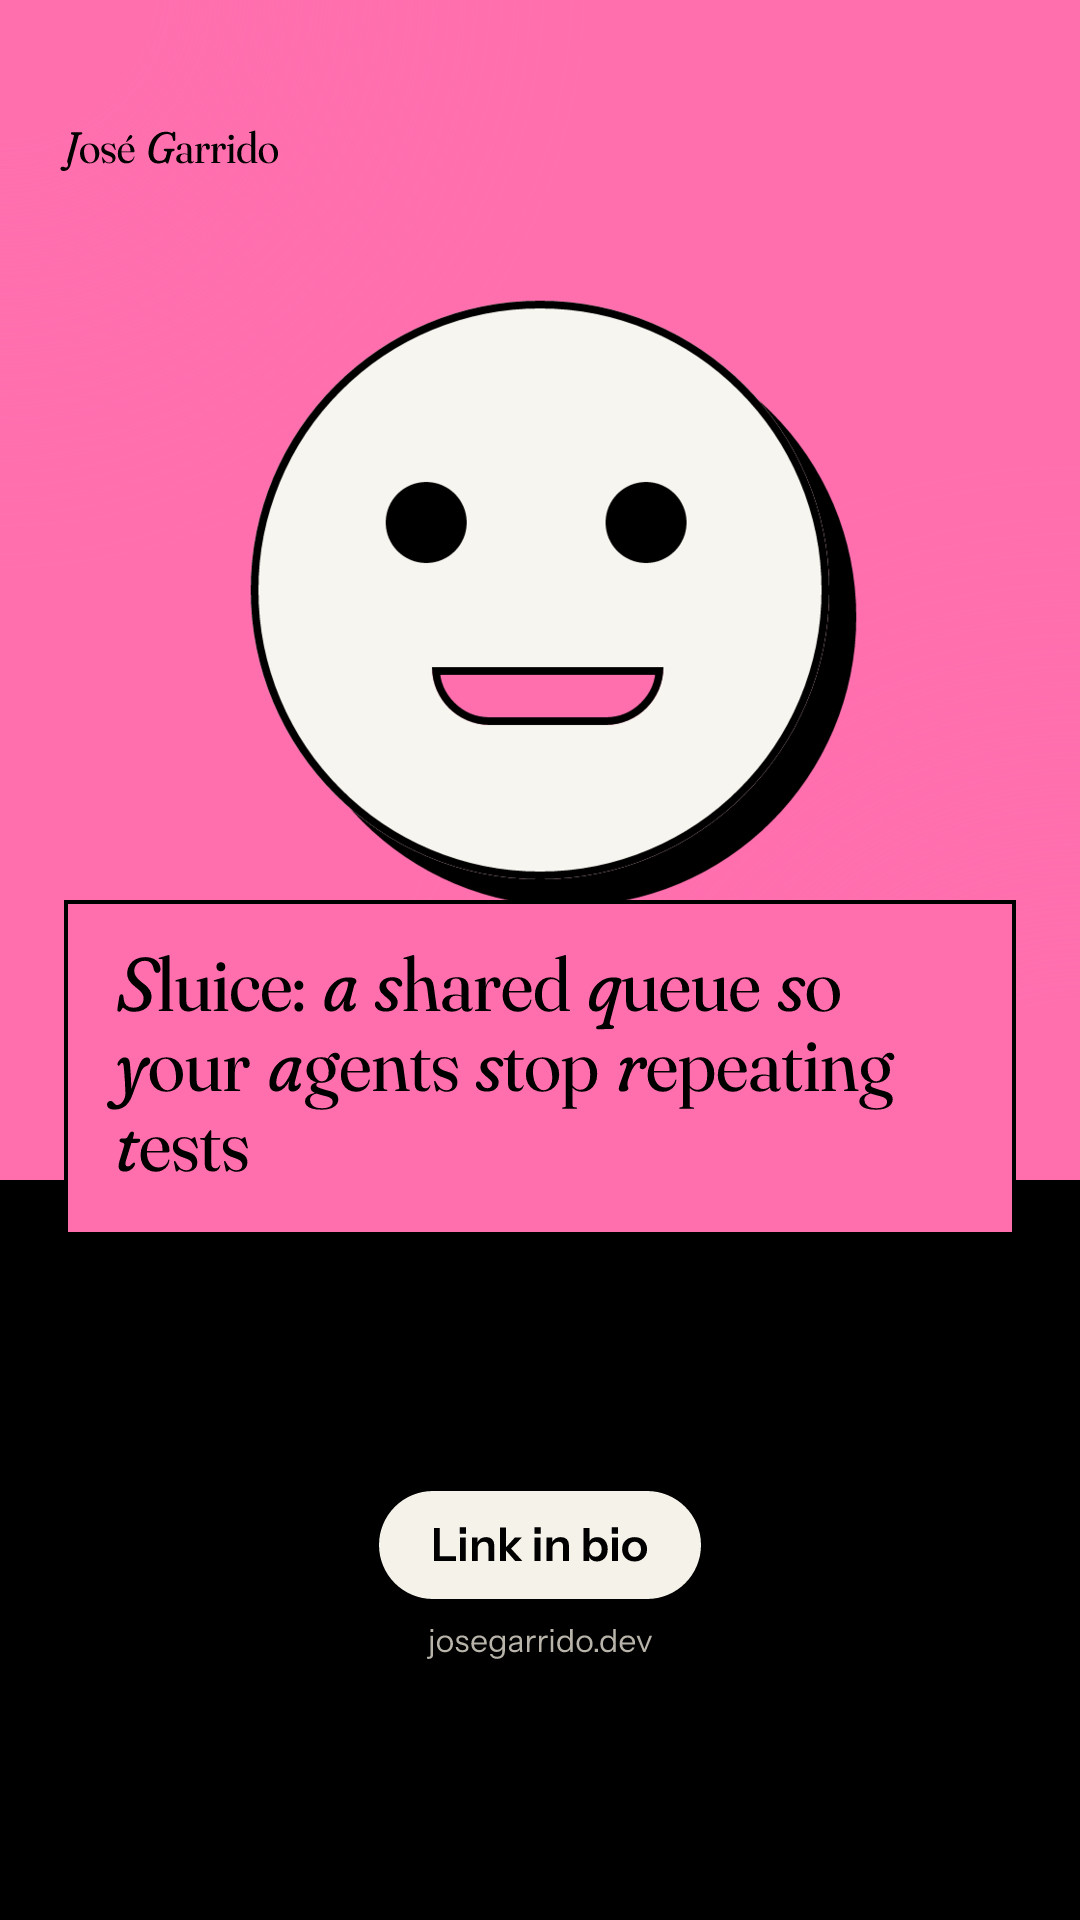
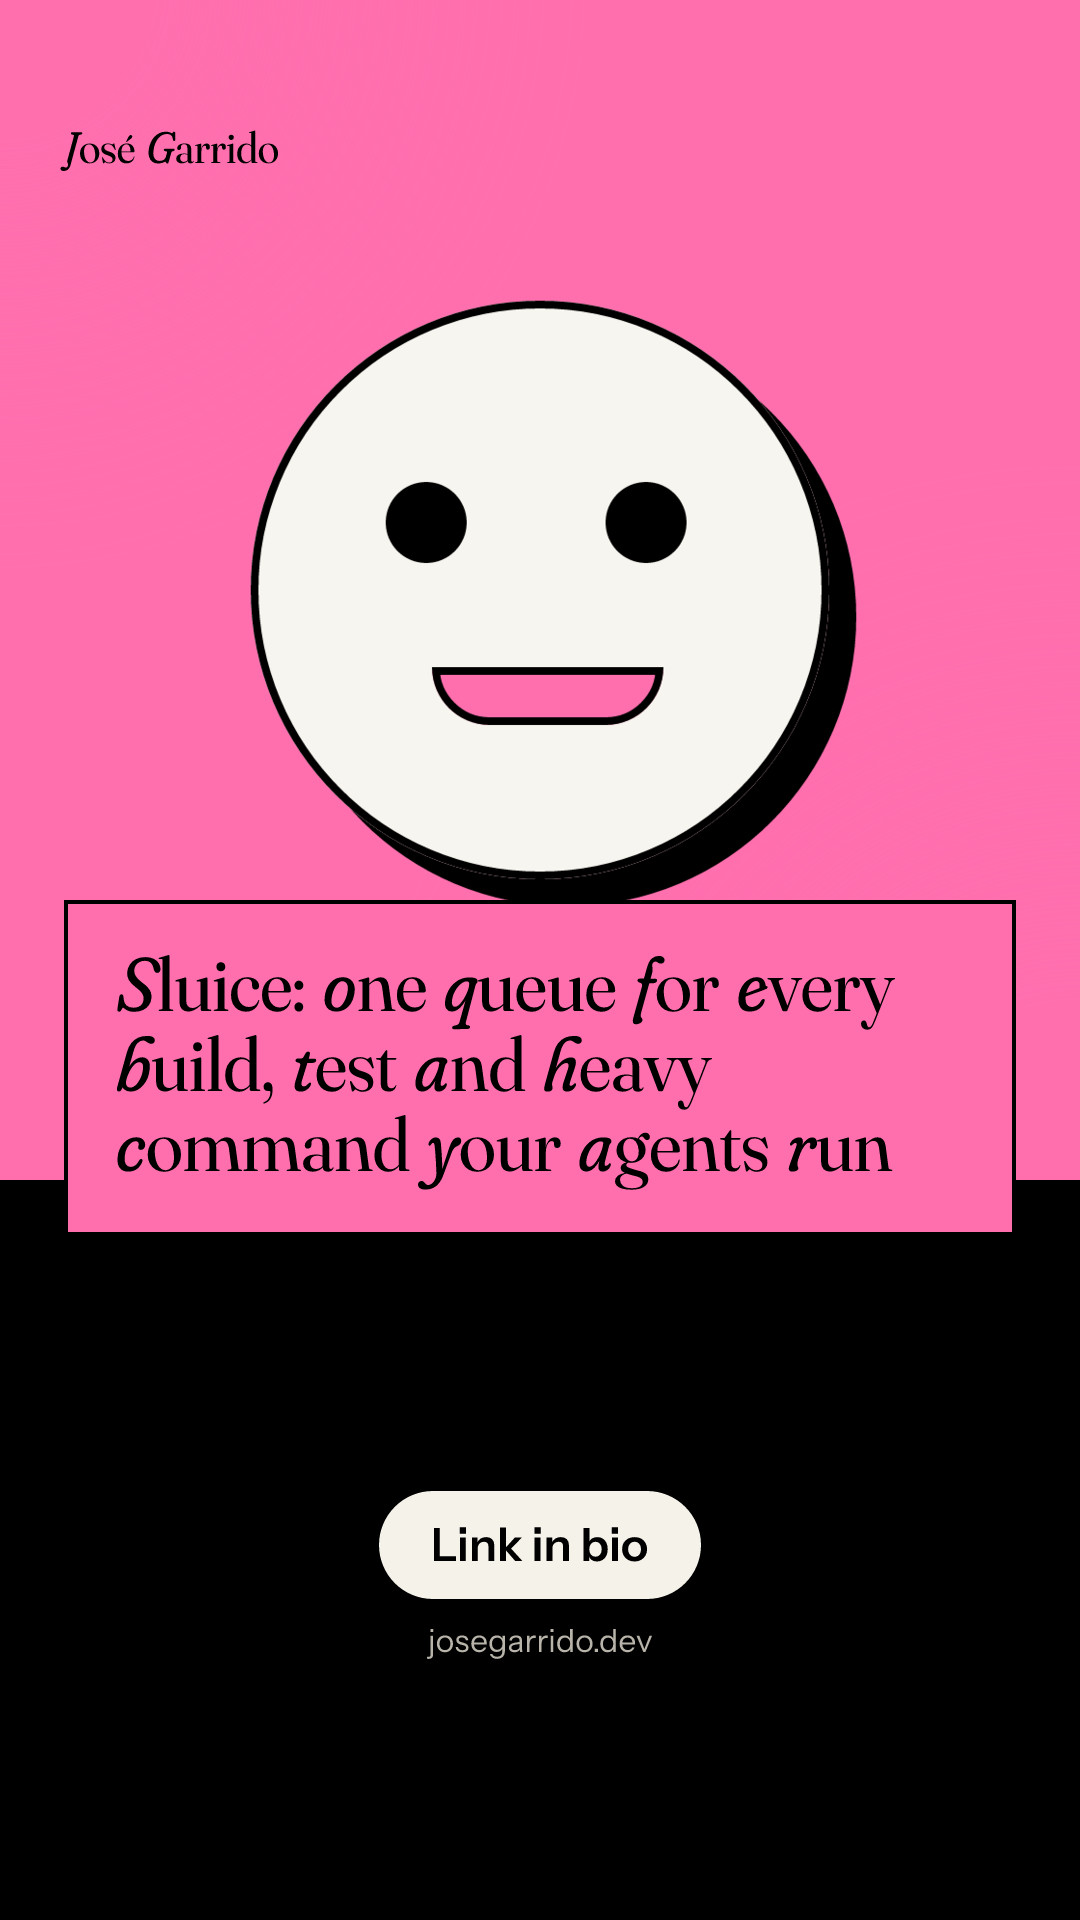
fix(article): retitle the Sluice article for builds, tests and heavy commands, not only tests
Sluice also queues the agents' heavy commands under one CPU and memory
budget, so the title, the descriptions and the newsletter subjects no longer
present it as a test-only cache. The OG image, the Instagram cover and the
story are re-rendered with Shipcast's renderer from the updated pack. Slugs,
file names and media paths are unchanged.

Changed region(s): [[0.0917, 0.5, 0.825, 0.625]]

diff --git a/articles/sluice-una-cola-compartida-para-que-tus-agentes-no-repitan-los-tests/instagram.md b/articles/sluice-una-cola-compartida-para-que-tus-agentes-no-repitan-los-tests/instagram.md
@@ -4,7 +4,7 @@
 
 Carousel, from the images in `public/articles/sluice-una-cola-compartida-para-que-tus-agentes-no-repitan-los-tests/` (their texts are drawn into them; only the caption and the comment below can be edited here):
 
-1. Cover: Sluice: a shared queue so your agents stop repeating tests. Sluice: a shared queue and cache so your AI agents don't repeat the same tests.
+1. Cover: Sluice: one queue for every build, test and heavy command your agents run. Sluice: a shared queue and cache so your AI agents don't repeat the same tests.
 2. Run each gate once: The cache key is the exact git tree plus the gate definition, shared by all worktrees. A cached typecheck answers in 0.22 s.
 3. Memory-aware scheduling: Sluice learns each gate's memory use, isolates jobs in cgroups and makes them the first victims if memory runs short.
 4. Backfilling the queue: Short jobs no longer wait behind a 12 GB suite: wait per minute of work dropped from 1.92 to 0.44 min.

diff --git a/src/content/posts/es/sluice-una-cola-compartida-para-que-tus-agentes-no-repitan-los-tests.md b/src/content/posts/es/sluice-una-cola-compartida-para-que-tus-agentes-no-repitan-los-tests.md
@@ -1,6 +1,6 @@
 ---
-title: "Sluice: una cola compartida para que tus agentes no repitan los tests"
-description: "Sluice es una cola y una caché de verificación para los agentes de IA de una máquina Linux: cada gate se ejecuta una vez por árbol de git, con presupuesto común de CPU y memoria."
+title: "Sluice: una sola cola para los builds, tests y comandos pesados de todos tus agentes"
+description: "Sluice encola los tests, builds y comandos pesados de tus agentes de IA con presupuesto común de CPU y memoria, y ejecuta cada check una vez por árbol de git."
 pubDate: 2026-10-29
 lang: es
 translationKey: "sluice-shared-queue-so-your-agents-stop-repeating-tests"

diff --git a/src/content/posts/en/sluice-shared-queue-so-your-agents-stop-repeating-tests.md b/src/content/posts/en/sluice-shared-queue-so-your-agents-stop-repeating-tests.md
@@ -1,6 +1,6 @@
 ---
-title: "Sluice: a shared queue so your agents stop repeating tests"
-description: "Sluice is a shared verification queue and cache for the AI agents on a Linux machine: each gate runs once per git tree, under a common CPU and memory budget."
+title: "Sluice: one queue for every build, test and heavy command your agents run"
+description: "Sluice queues the tests, builds and heavy commands of your AI agents under a common CPU and memory budget, and runs each check once per git tree."
 pubDate: 2026-10-29
 lang: en
 translationKey: "sluice-shared-queue-so-your-agents-stop-repeating-tests"

diff --git a/articles/sluice-una-cola-compartida-para-que-tus-agentes-no-repitan-los-tests/discord.md b/articles/sluice-una-cola-compartida-para-que-tus-agentes-no-repitan-los-tests/discord.md
@@ -2,7 +2,7 @@
 
 > **Approval:** published when this pull request is merged. Edit it here if it needs changes.
 
-**Sluice: a shared queue so your agents stop repeating tests** 🚦
+**Sluice: one queue for every build, test and heavy command your agents run** 🚦
 
 If you run several Claude Code agents on one Linux machine, you know the pain: five agents, five test suites at once, and the same tests rerunning on code that already passed.
 

diff --git a/articles/sluice-una-cola-compartida-para-que-tus-agentes-no-repitan-los-tests/newsletter-es.md b/articles/sluice-una-cola-compartida-para-que-tus-agentes-no-repitan-los-tests/newsletter-es.md
@@ -2,7 +2,7 @@
 
 > **Approval:** published when this pull request is merged. Edit it here if it needs changes.
 
-Subject: Sluice: una cola compartida para que tus agentes no repitan los tests
+Subject: De agentes peleándose por la máquina a cero caídas: así funciona Sluice
 Preview: Cada gate se ejecuta una vez por árbol de git, con un presupuesto común de CPU y memoria. Unas 28 horas de checks ahorradas en una semana.
 
 Hola:

diff --git a/articles/sluice-una-cola-compartida-para-que-tus-agentes-no-repitan-los-tests/newsletter-en.md b/articles/sluice-una-cola-compartida-para-que-tus-agentes-no-repitan-los-tests/newsletter-en.md
@@ -2,7 +2,7 @@
 
 > **Approval:** published when this pull request is merged. Edit it here if it needs changes.
 
-Subject: Sluice: a shared queue so your agents stop repeating tests
+Subject: From agents fighting over the machine to zero crashes: how Sluice works
 Preview: Each gate runs once per git tree, under one CPU and memory budget. About 28 hours of checks skipped in a week.
 
 Hi,
